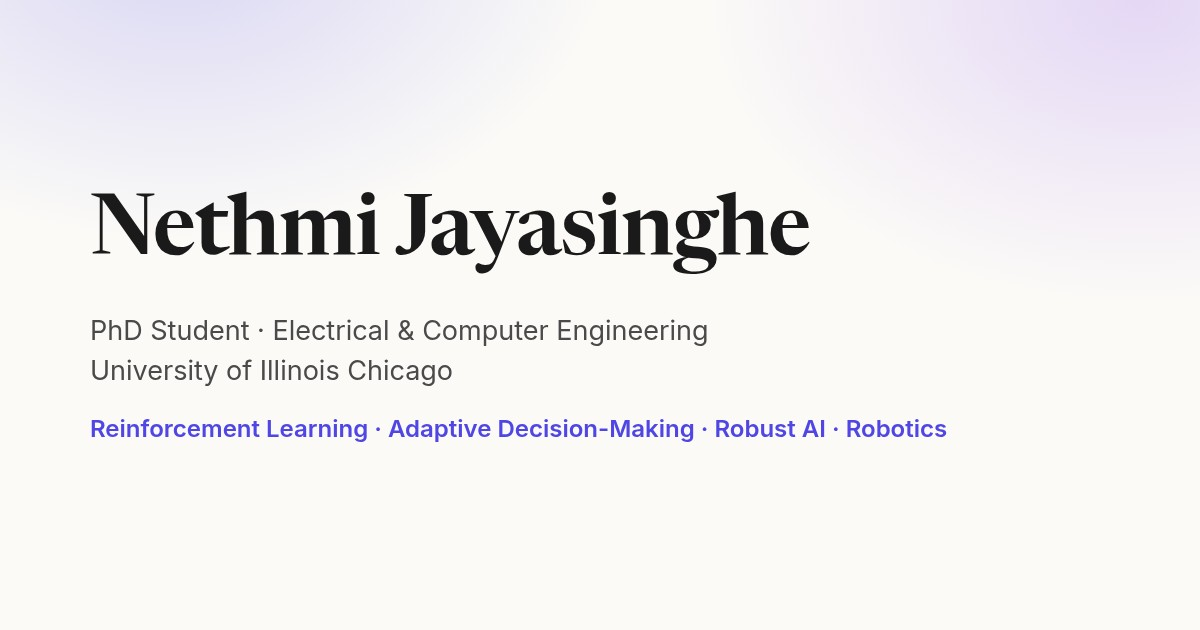
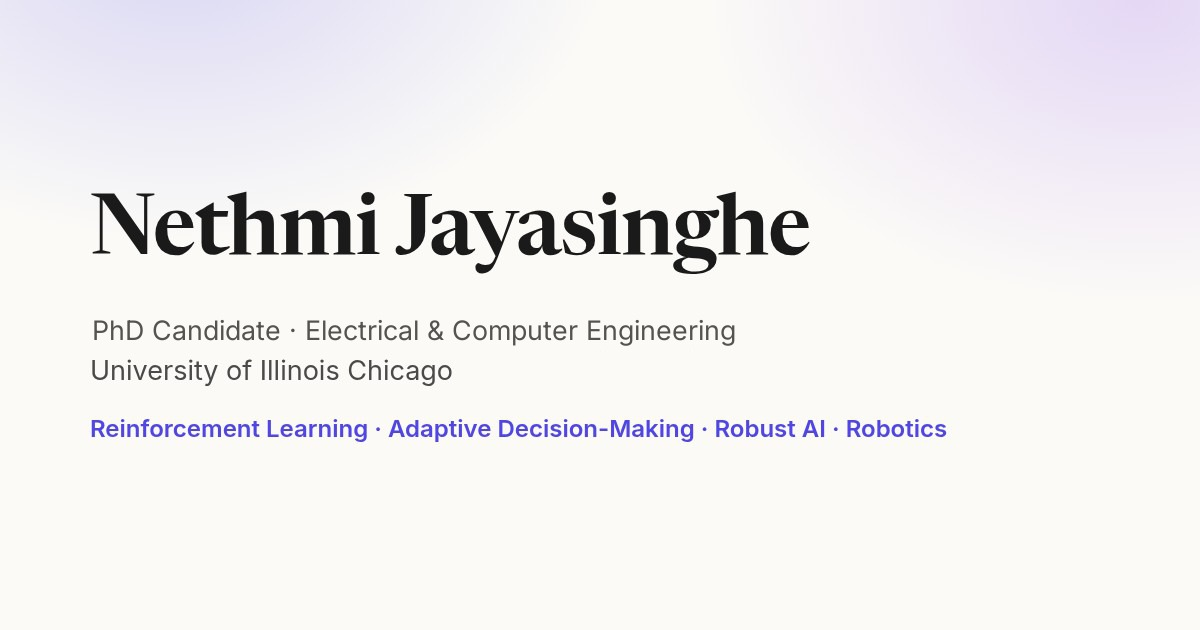
Update title to PhD Candidate

Changed region(s): [[0.0617, 0.5127, 0.6167, 0.5429]]

diff --git a/index.html b/index.html
@@ -4,20 +4,20 @@
 <meta charset="UTF-8" />
 <meta name="viewport" content="width=device-width, initial-scale=1.0" />
 <title>Nethmi Jayasinghe</title>
-<meta name="description" content="Nethmi Jayasinghe - PhD student in Electrical & Computer Engineering at the University of Illinois Chicago. Reinforcement learning, adaptive decision-making, and robust AI systems." />
+<meta name="description" content="Nethmi Jayasinghe - PhD candidate in Electrical & Computer Engineering at the University of Illinois Chicago. Reinforcement learning, adaptive decision-making, and robust AI systems." />
 <link rel="canonical" href="https://nethmijayasinghe.github.io/" />
 <meta property="og:type" content="website" />
 <meta property="og:site_name" content="Nethmi Jayasinghe" />
 <meta property="og:title" content="Nethmi Jayasinghe" />
-<meta property="og:description" content="Nethmi Jayasinghe - PhD student in Electrical & Computer Engineering at the University of Illinois Chicago. Reinforcement learning, adaptive decision-making, and robust AI systems." />
+<meta property="og:description" content="Nethmi Jayasinghe - PhD candidate in Electrical & Computer Engineering at the University of Illinois Chicago. Reinforcement learning, adaptive decision-making, and robust AI systems." />
 <meta property="og:url" content="https://nethmijayasinghe.github.io/" />
 <meta property="og:image" content="https://nethmijayasinghe.github.io/assets/og/home.jpg" />
 <meta property="og:image:width" content="1200" />
 <meta property="og:image:height" content="630" />
-<meta property="og:image:alt" content="Nethmi Jayasinghe - PhD student, University of Illinois Chicago" />
+<meta property="og:image:alt" content="Nethmi Jayasinghe - PhD candidate, University of Illinois Chicago" />
 <meta name="twitter:card" content="summary_large_image" />
 <meta name="twitter:title" content="Nethmi Jayasinghe" />
-<meta name="twitter:description" content="Nethmi Jayasinghe - PhD student in Electrical & Computer Engineering at the University of Illinois Chicago. Reinforcement learning, adaptive decision-making, and robust AI systems." />
+<meta name="twitter:description" content="Nethmi Jayasinghe - PhD candidate in Electrical & Computer Engineering at the University of Illinois Chicago. Reinforcement learning, adaptive decision-making, and robust AI systems." />
 <meta name="twitter:image" content="https://nethmijayasinghe.github.io/assets/og/home.jpg" />
 <link rel="preconnect" href="https://fonts.googleapis.com" />
 <link rel="preconnect" href="https://fonts.gstatic.com" crossorigin />
@@ -211,7 +211,7 @@
 <header class="hero">
   <div class="wrap">
     <h1>Nethmi Jayasinghe</h1>
-    <p class="role">PhD Student · Electrical &amp; Computer Engineering · University of Illinois Chicago</p>
+    <p class="role">PhD Candidate · Electrical &amp; Computer Engineering · University of Illinois Chicago</p>
     <p class="affil">Reinforcement Learning · Adaptive Decision-Making · Robust AI · Robotics</p>
     <div class="links">
       <a href="mailto:wjayas3@uic.edu">
@@ -242,7 +242,7 @@
   <div class="wrap">
     <p class="eyebrow">About</p>
     <p>
-      I am a PhD student in Electrical &amp; Computer Engineering at the University of Illinois Chicago,
+      I am a PhD candidate in Electrical &amp; Computer Engineering at the University of Illinois Chicago,
       specializing in <strong>reinforcement learning</strong>, <strong>adaptive decision-making</strong>, and
       <strong>robust AI systems</strong>. My research focuses on adaptive agents that make real-time decisions
       under distribution shifts while maintaining stable behavior - recovering from faults and unexpected

diff --git a/README.md b/README.md
@@ -1,6 +1,6 @@
 # Nethmi Jayasinghe
 
-**PhD Student · Electrical & Computer Engineering · University of Illinois Chicago**
+**PhD Candidate · Electrical & Computer Engineering · University of Illinois Chicago**
 
 Reinforcement learning · adaptive decision-making · robust AI
 
@@ -8,7 +8,7 @@ Reinforcement learning · adaptive decision-making · robust AI
 
 ---
 
-I am a PhD student in Electrical & Computer Engineering at the University of Illinois Chicago,
+I am a PhD candidate in Electrical & Computer Engineering at the University of Illinois Chicago,
 specializing in reinforcement learning, adaptive decision-making, and robust AI systems. My research
 focuses on adaptive agents that make real-time decisions under distribution shifts while maintaining
 stable behavior - recovering from faults and unexpected dynamics without retraining, with applications
